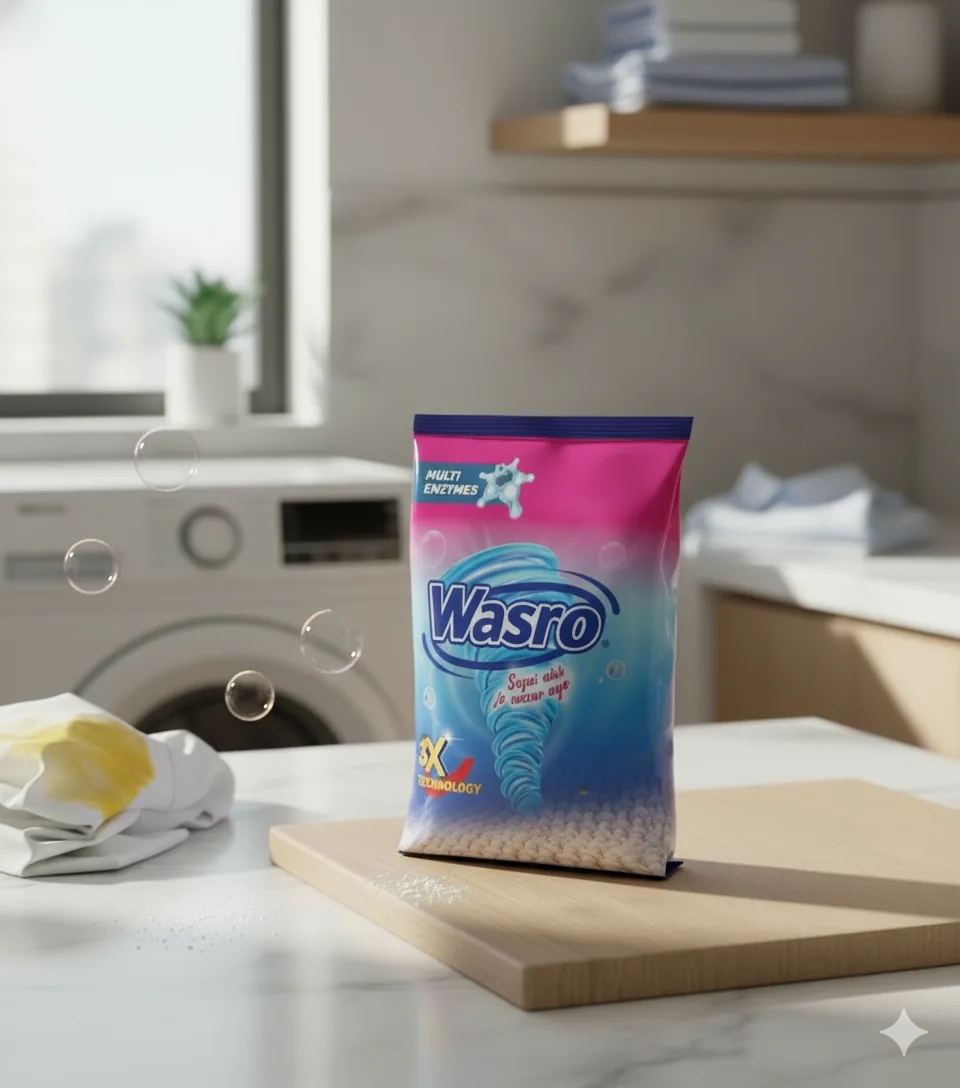
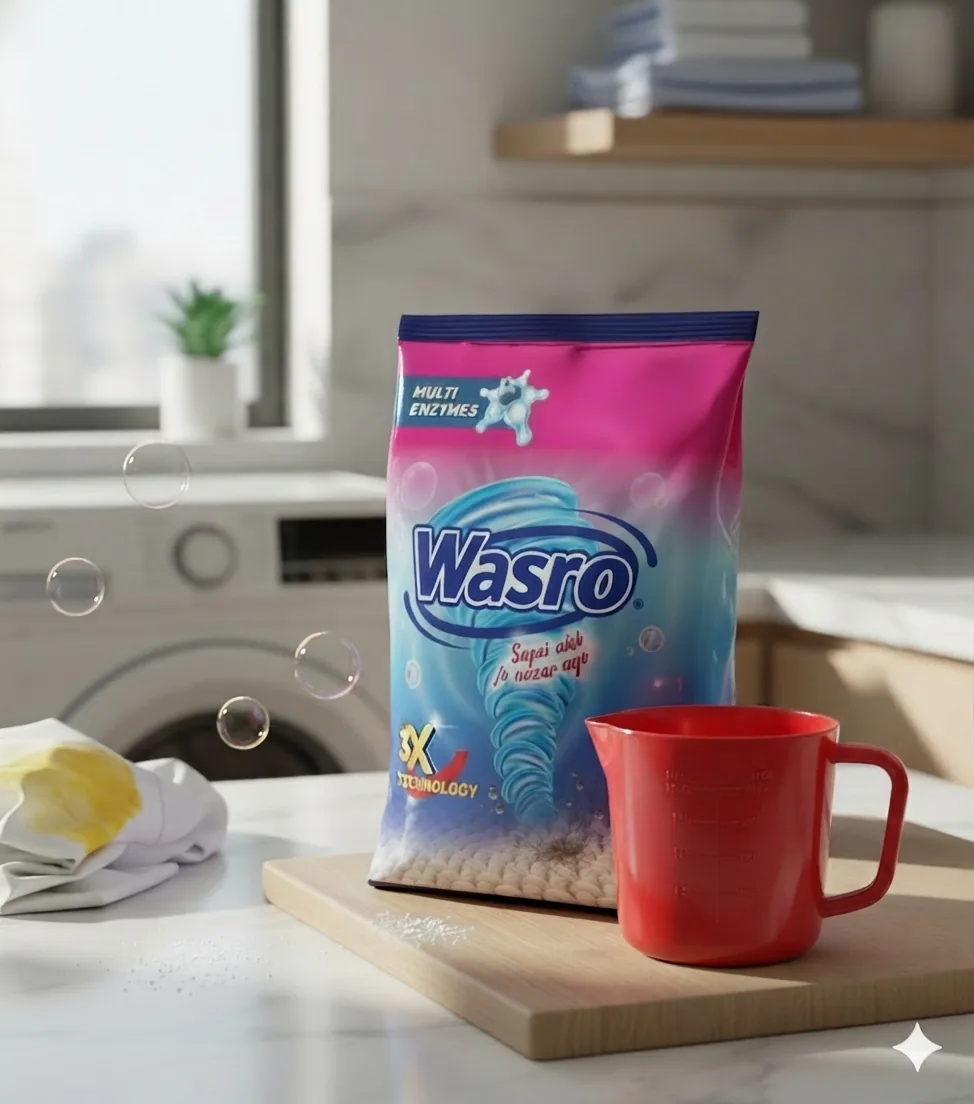
Project cleanup: remove dead code, consolidate image assets
- Remove dead components (marquee.tsx, category-pill-nav.tsx — both unimported)
- 400g pack: new image (tub removed) + free-mug offer
- Tidy stale comments (products page, globals.css)
- Local hygiene (gitignored, no production impact): deleted 163MB of image
  scratch folders after verifying every /public asset is referenced;
  consolidated all used images into a single _used-images/ backup

No functional/production changes — verified: build clean, all public assets
still referenced, 25 smoke tests pass.

diff --git a/app/products/page.tsx b/app/products/page.tsx
@@ -4,12 +4,8 @@ import { getResolvedProducts } from "@/lib/server/products-resolved";
 import { PageHero } from "@/components/ui/page-hero";
 import { AnimatedCounter } from "@/components/ui/animated-counter";
 import { CategoryShowcaseHero } from "@/components/products/category-showcase-hero";
-// Removed: the sticky CategoryPillNav. Visitors flagged it as interruptive
-// during scroll. The CategoryShowcaseHero on top of the page already lets
-// people jump to a category, and the in-page section headings make
-// orientation obvious. The component file is kept on disk in case we
-// want to revive it as a non-sticky/condensed variant later.
-// import { CategoryPillNav } from "@/components/products/category-pill-nav";
+// The sticky category pill-nav was removed (felt interruptive on scroll).
+// The CategoryShowcaseHero above already provides category jumps.
 import { CategorySection } from "@/components/products/category-section";
 import { OffersSection } from "@/components/products/offers-section";
 import { SectionWave } from "@/components/ui/section-wave";

diff --git a/data/products.ts b/data/products.ts
@@ -76,9 +76,9 @@ export const PRODUCTS: Product[] = [
     category: "detergent-powder",
     size: "400g",
     mrp: 45,
-    offer: null,
+    offer: "FREE Mug with this pack",
     description:
-      "400g Multi-Enzymes detergent. Family-pack convenience at a value-tier price.",
+      "400g Multi-Enzymes detergent — comes with a free measuring mug. Family-pack value, every wash.",
     image: "/products/powder-400g.webp",
   },
   {

diff --git a/app/globals.css b/app/globals.css
@@ -333,7 +333,7 @@ h1, h2, h3, h4, h5, h6 {
   animation-duration: 4.5s;
 }
 
-/* Marquee already defined inline; keep here for global availability too */
+/* Honour reduced-motion: neutralise all decorative animations. */
 @media (prefers-reduced-motion: reduce) {
   .wasro-pulse-ring,
   .wasro-float,
